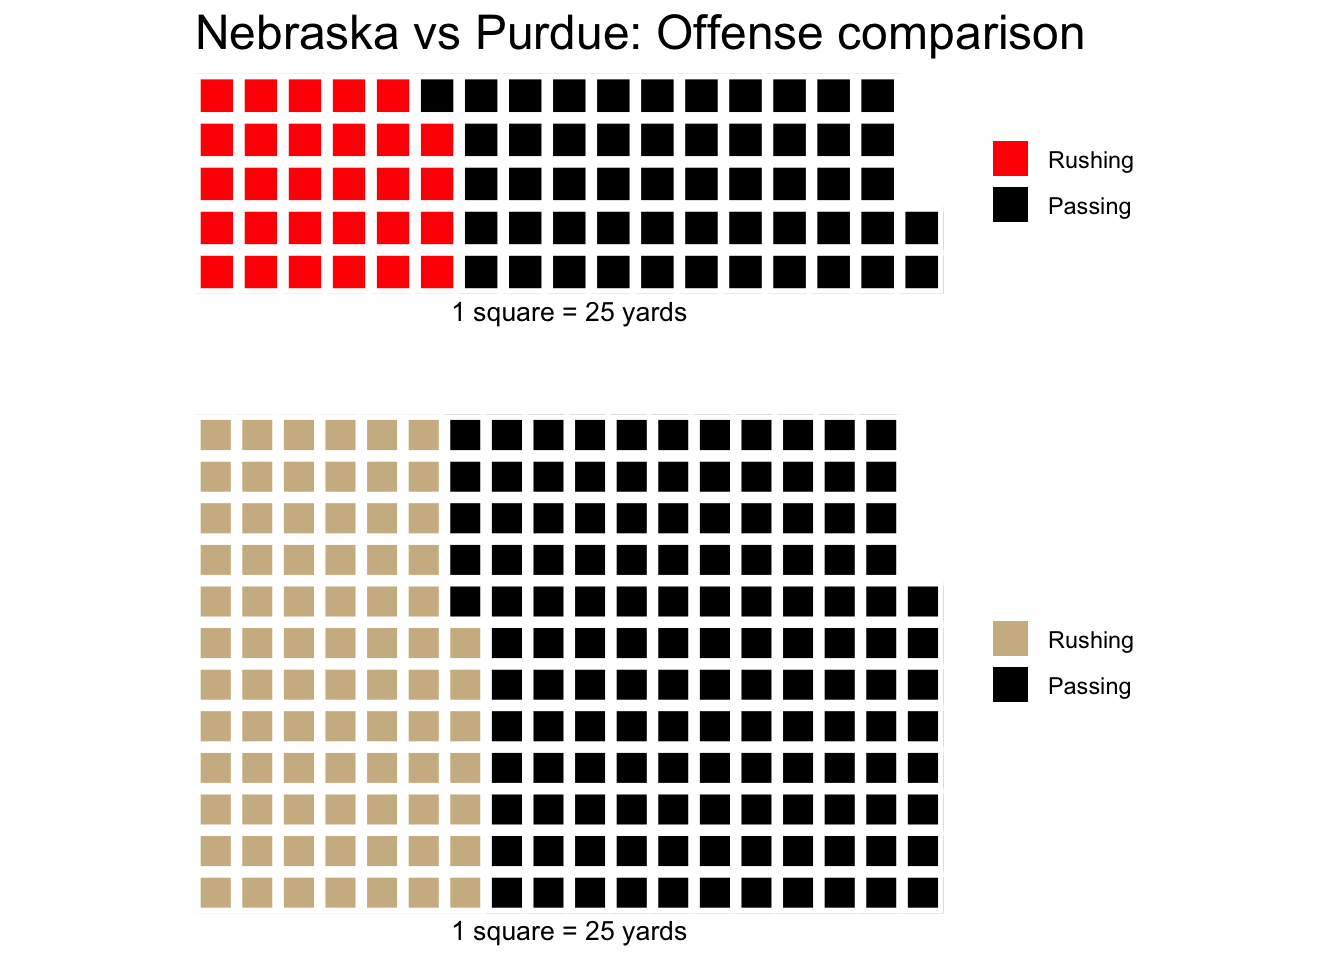
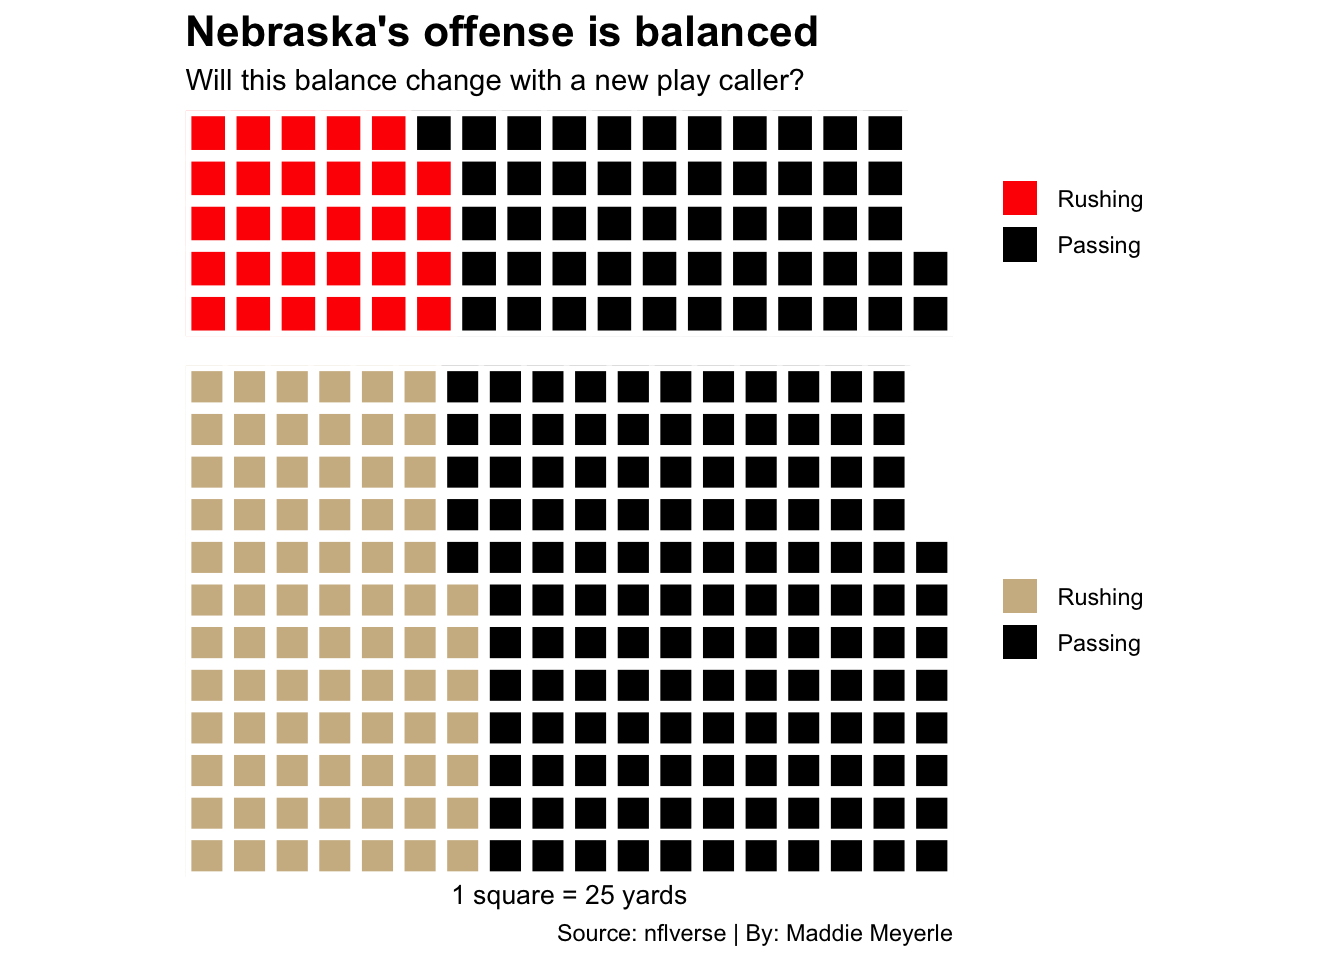
graph

Changed region(s): [[0.125, 0.375, 0.8438, 1.0], [0.125, 0.0, 0.8438, 0.3438]]

diff --git a/posts/christian-mccaffrey-analysis/index.html b/posts/christian-mccaffrey-analysis/index.html
@@ -309,18 +309,27 @@ Attaching package: 'dplyr'</code></pre>
 <span id="cb7-23"><a href="#cb7-23" aria-hidden="true" tabindex="-1"></a>  <span class="fu">waffle</span>(</span>
 <span id="cb7-24"><a href="#cb7-24" aria-hidden="true" tabindex="-1"></a>    before <span class="sc">/</span> <span class="dv">25</span>, </span>
 <span id="cb7-25"><a href="#cb7-25" aria-hidden="true" tabindex="-1"></a>    <span class="at">rows =</span> <span class="dv">5</span>, </span>
-<span id="cb7-26"><a href="#cb7-26" aria-hidden="true" tabindex="-1"></a>    <span class="at">title =</span> <span class="st">"Nebraska vs Purdue: Offense comparison"</span>, </span>
-<span id="cb7-27"><a href="#cb7-27" aria-hidden="true" tabindex="-1"></a>    <span class="at">xlab =</span> <span class="st">"1 square = 25 yards"</span>, </span>
-<span id="cb7-28"><a href="#cb7-28" aria-hidden="true" tabindex="-1"></a>    <span class="at">colors =</span> <span class="fu">c</span>(<span class="st">"red"</span>, <span class="st">"black"</span>)</span>
-<span id="cb7-29"><a href="#cb7-29" aria-hidden="true" tabindex="-1"></a>  ),</span>
-<span id="cb7-30"><a href="#cb7-30" aria-hidden="true" tabindex="-1"></a>  <span class="fu">waffle</span>(</span>
-<span id="cb7-31"><a href="#cb7-31" aria-hidden="true" tabindex="-1"></a>    after <span class="sc">/</span> <span class="dv">25</span>, </span>
-<span id="cb7-32"><a href="#cb7-32" aria-hidden="true" tabindex="-1"></a>    <span class="at">rows =</span> <span class="dv">12</span>, </span>
-<span id="cb7-33"><a href="#cb7-33" aria-hidden="true" tabindex="-1"></a>    <span class="at">title =</span> <span class="st">""</span>, </span>
-<span id="cb7-34"><a href="#cb7-34" aria-hidden="true" tabindex="-1"></a>    <span class="at">xlab =</span> <span class="st">"1 square = 25 yards"</span>, </span>
-<span id="cb7-35"><a href="#cb7-35" aria-hidden="true" tabindex="-1"></a>    <span class="at">colors =</span> <span class="fu">c</span>(<span class="st">"#CFB991"</span>, <span class="st">"#000000"</span>, <span class="st">"white"</span>)</span>
-<span id="cb7-36"><a href="#cb7-36" aria-hidden="true" tabindex="-1"></a>  )</span>
-<span id="cb7-37"><a href="#cb7-37" aria-hidden="true" tabindex="-1"></a>)</span></code><button title="Copy to Clipboard" class="code-copy-button"><i class="bi"></i></button></pre></div>
+<span id="cb7-26"><a href="#cb7-26" aria-hidden="true" tabindex="-1"></a>    <span class="at">colors =</span> <span class="fu">c</span>(<span class="st">"red"</span>, <span class="st">"black"</span>)</span>
+<span id="cb7-27"><a href="#cb7-27" aria-hidden="true" tabindex="-1"></a>  ) <span class="sc">+</span></span>
+<span id="cb7-28"><a href="#cb7-28" aria-hidden="true" tabindex="-1"></a>    <span class="fu">labs</span>(</span>
+<span id="cb7-29"><a href="#cb7-29" aria-hidden="true" tabindex="-1"></a>      <span class="at">title =</span> <span class="st">"Nebraska's offense is balanced"</span>,</span>
+<span id="cb7-30"><a href="#cb7-30" aria-hidden="true" tabindex="-1"></a>      <span class="at">subtitle =</span> <span class="st">"Will this balance change with a new play caller?"</span>,</span>
+<span id="cb7-31"><a href="#cb7-31" aria-hidden="true" tabindex="-1"></a>    ) <span class="sc">+</span></span>
+<span id="cb7-32"><a href="#cb7-32" aria-hidden="true" tabindex="-1"></a>    <span class="fu">theme</span>(</span>
+<span id="cb7-33"><a href="#cb7-33" aria-hidden="true" tabindex="-1"></a>      <span class="at">plot.title =</span> <span class="fu">element_text</span>(<span class="at">size =</span> <span class="dv">16</span>, <span class="at">face =</span> <span class="st">"bold"</span>),</span>
+<span id="cb7-34"><a href="#cb7-34" aria-hidden="true" tabindex="-1"></a>      <span class="at">axis.title =</span> <span class="fu">element_text</span>(<span class="at">size =</span> <span class="dv">10</span>),</span>
+<span id="cb7-35"><a href="#cb7-35" aria-hidden="true" tabindex="-1"></a>      <span class="at">axis.title.y =</span> <span class="fu">element_blank</span>()</span>
+<span id="cb7-36"><a href="#cb7-36" aria-hidden="true" tabindex="-1"></a>    ),</span>
+<span id="cb7-37"><a href="#cb7-37" aria-hidden="true" tabindex="-1"></a>  <span class="fu">waffle</span>(</span>
+<span id="cb7-38"><a href="#cb7-38" aria-hidden="true" tabindex="-1"></a>    after <span class="sc">/</span> <span class="dv">25</span>, </span>
+<span id="cb7-39"><a href="#cb7-39" aria-hidden="true" tabindex="-1"></a>    <span class="at">rows =</span> <span class="dv">12</span>, </span>
+<span id="cb7-40"><a href="#cb7-40" aria-hidden="true" tabindex="-1"></a>    <span class="at">colors =</span> <span class="fu">c</span>(<span class="st">"#CFB991"</span>, <span class="st">"#000000"</span>, <span class="st">"white"</span>)</span>
+<span id="cb7-41"><a href="#cb7-41" aria-hidden="true" tabindex="-1"></a>  ) <span class="sc">+</span></span>
+<span id="cb7-42"><a href="#cb7-42" aria-hidden="true" tabindex="-1"></a>    <span class="fu">labs</span>(</span>
+<span id="cb7-43"><a href="#cb7-43" aria-hidden="true" tabindex="-1"></a>      <span class="at">x =</span> <span class="st">"1 square = 25 yards"</span>,</span>
+<span id="cb7-44"><a href="#cb7-44" aria-hidden="true" tabindex="-1"></a>      <span class="at">caption =</span> <span class="st">"Source: nflverse | By: Maddie Meyerle"</span></span>
+<span id="cb7-45"><a href="#cb7-45" aria-hidden="true" tabindex="-1"></a>    )</span>
+<span id="cb7-46"><a href="#cb7-46" aria-hidden="true" tabindex="-1"></a>)</span></code><button title="Copy to Clipboard" class="code-copy-button"><i class="bi"></i></button></pre></div>
 </details>
 <div class="cell-output-display">
 <div>
@@ -331,6 +340,100 @@ Attaching package: 'dplyr'</code></pre>
 </div>
 </div>
 <p>text</p>
+<div class="cell">
+<details class="code-fold">
+<summary>Code</summary>
+<div class="sourceCode cell-code" id="cb8"><pre class="sourceCode r code-with-copy"><code class="sourceCode r"><span id="cb8-1"><a href="#cb8-1" aria-hidden="true" tabindex="-1"></a><span class="fu">library</span>(tidyverse)</span></code><button title="Copy to Clipboard" class="code-copy-button"><i class="bi"></i></button></pre></div>
+</details>
+<div class="cell-output cell-output-stderr">
+<pre><code>── Attaching core tidyverse packages ──────────────────────── tidyverse 2.0.0 ──
+✔ forcats   1.0.0     ✔ readr     2.1.5
+✔ lubridate 1.9.3     ✔ stringr   1.5.1
+✔ purrr     1.0.2     ✔ tibble    3.2.1
+── Conflicts ────────────────────────────────────────── tidyverse_conflicts() ──
+✖ dplyr::filter() masks stats::filter()
+✖ dplyr::lag()    masks stats::lag()
+ℹ Use the conflicted package (&lt;http://conflicted.r-lib.org/&gt;) to force all conflicts to become errors</code></pre>
+</div>
+<details class="code-fold">
+<summary>Code</summary>
+<div class="sourceCode cell-code" id="cb10"><pre class="sourceCode r code-with-copy"><code class="sourceCode r"><span id="cb10-1"><a href="#cb10-1" aria-hidden="true" tabindex="-1"></a>runningbacks <span class="ot">&lt;-</span> </span>
+<span id="cb10-2"><a href="#cb10-2" aria-hidden="true" tabindex="-1"></a>  <span class="fu">read_csv</span>(<span class="st">"data/niners2022.csv"</span>)</span></code><button title="Copy to Clipboard" class="code-copy-button"><i class="bi"></i></button></pre></div>
+</details>
+<div class="cell-output cell-output-stderr">
+<pre><code>New names:
+Rows: 22 Columns: 33
+── Column specification
+──────────────────────────────────────────────────────── Delimiter: "," chr
+(2): Player, Pos dbl (25): Rk, Age, G, GS, Att, RushYds, TD...9, 1D...10,
+Succ%...11, Lng...1... lgl (6): ...28, ...29, ...30, ...31, ...32, ...33
+ℹ Use `spec()` to retrieve the full column specification for this data. ℹ
+Specify the column types or set `show_col_types = FALSE` to quiet this message.
+• `TD` -&gt; `TD...9`
+• `1D` -&gt; `1D...10`
+• `Succ%` -&gt; `Succ%...11`
+• `Lng` -&gt; `Lng...12`
+• `Y/G` -&gt; `Y/G...14`
+• `TD` -&gt; `TD...20`
+• `1D` -&gt; `1D...21`
+• `Succ%` -&gt; `Succ%...22`
+• `Lng` -&gt; `Lng...23`
+• `Y/G` -&gt; `Y/G...25`
+• `` -&gt; `...28`
+• `` -&gt; `...29`
+• `` -&gt; `...30`
+• `` -&gt; `...31`
+• `` -&gt; `...32`
+• `` -&gt; `...33`</code></pre>
+</div>
+<details class="code-fold">
+<summary>Code</summary>
+<div class="sourceCode cell-code" id="cb12"><pre class="sourceCode r code-with-copy"><code class="sourceCode r"><span id="cb12-1"><a href="#cb12-1" aria-hidden="true" tabindex="-1"></a>players_of_interest <span class="ot">&lt;-</span> <span class="fu">c</span>(<span class="st">"Christian McCaffrey"</span>, <span class="st">"Jeff Wilson"</span>, <span class="st">"Elijah Mitchell"</span>, <span class="st">"Jordan Mason"</span>, <span class="st">"Tyrion Davis-Price"</span>, <span class="st">"Tevin Coleman"</span>)</span>
+<span id="cb12-2"><a href="#cb12-2" aria-hidden="true" tabindex="-1"></a></span>
+<span id="cb12-3"><a href="#cb12-3" aria-hidden="true" tabindex="-1"></a>filtered_rb <span class="ot">&lt;-</span> runningbacks <span class="sc">|&gt;</span></span>
+<span id="cb12-4"><a href="#cb12-4" aria-hidden="true" tabindex="-1"></a>  <span class="fu">filter</span>(Player <span class="sc">%in%</span> players_of_interest) <span class="sc">|&gt;</span></span>
+<span id="cb12-5"><a href="#cb12-5" aria-hidden="true" tabindex="-1"></a>  <span class="fu">select</span>(Player, RushYds, RecYds)</span>
+<span id="cb12-6"><a href="#cb12-6" aria-hidden="true" tabindex="-1"></a></span>
+<span id="cb12-7"><a href="#cb12-7" aria-hidden="true" tabindex="-1"></a>long_data <span class="ot">&lt;-</span> filtered_rb <span class="sc">|&gt;</span></span>
+<span id="cb12-8"><a href="#cb12-8" aria-hidden="true" tabindex="-1"></a>  <span class="fu">pivot_longer</span>(</span>
+<span id="cb12-9"><a href="#cb12-9" aria-hidden="true" tabindex="-1"></a>    <span class="at">cols =</span> <span class="fu">c</span>(<span class="st">"RushYds"</span>, <span class="st">"RecYds"</span>),</span>
+<span id="cb12-10"><a href="#cb12-10" aria-hidden="true" tabindex="-1"></a>    <span class="at">names_to =</span> <span class="st">"Yard_Type"</span>,</span>
+<span id="cb12-11"><a href="#cb12-11" aria-hidden="true" tabindex="-1"></a>    <span class="at">values_to =</span> <span class="st">"Yards"</span></span>
+<span id="cb12-12"><a href="#cb12-12" aria-hidden="true" tabindex="-1"></a>  )</span>
+<span id="cb12-13"><a href="#cb12-13" aria-hidden="true" tabindex="-1"></a></span>
+<span id="cb12-14"><a href="#cb12-14" aria-hidden="true" tabindex="-1"></a><span class="fu">ggplot</span>(long_data, <span class="fu">aes</span>(</span>
+<span id="cb12-15"><a href="#cb12-15" aria-hidden="true" tabindex="-1"></a>  <span class="at">x =</span> Player,</span>
+<span id="cb12-16"><a href="#cb12-16" aria-hidden="true" tabindex="-1"></a>  <span class="at">y =</span> Yards,</span>
+<span id="cb12-17"><a href="#cb12-17" aria-hidden="true" tabindex="-1"></a>  <span class="at">fill =</span> Yard_Type</span>
+<span id="cb12-18"><a href="#cb12-18" aria-hidden="true" tabindex="-1"></a>)) <span class="sc">+</span></span>
+<span id="cb12-19"><a href="#cb12-19" aria-hidden="true" tabindex="-1"></a>  <span class="fu">geom_bar</span>(<span class="at">stat =</span> <span class="st">"identity"</span>) <span class="sc">+</span></span>
+<span id="cb12-20"><a href="#cb12-20" aria-hidden="true" tabindex="-1"></a>  <span class="fu">coord_flip</span>() <span class="sc">+</span></span>
+<span id="cb12-21"><a href="#cb12-21" aria-hidden="true" tabindex="-1"></a>  <span class="fu">labs</span>(</span>
+<span id="cb12-22"><a href="#cb12-22" aria-hidden="true" tabindex="-1"></a>    <span class="at">title =</span> <span class="st">"Comparison of receiving and rushing"</span>,</span>
+<span id="cb12-23"><a href="#cb12-23" aria-hidden="true" tabindex="-1"></a>    <span class="at">subtitle =</span> <span class="st">"Christian McCaffrey stuff"</span>,</span>
+<span id="cb12-24"><a href="#cb12-24" aria-hidden="true" tabindex="-1"></a>    <span class="at">caption =</span> <span class="st">"Source: Sports-Reference | By: Maddie Meyerle"</span>,</span>
+<span id="cb12-25"><a href="#cb12-25" aria-hidden="true" tabindex="-1"></a>    <span class="at">x =</span> <span class="st">"Player"</span>,</span>
+<span id="cb12-26"><a href="#cb12-26" aria-hidden="true" tabindex="-1"></a>    <span class="at">y =</span> <span class="st">"Yards"</span>,</span>
+<span id="cb12-27"><a href="#cb12-27" aria-hidden="true" tabindex="-1"></a>    <span class="at">fill =</span> <span class="st">"Yard Type"</span></span>
+<span id="cb12-28"><a href="#cb12-28" aria-hidden="true" tabindex="-1"></a>  ) <span class="sc">+</span></span>
+<span id="cb12-29"><a href="#cb12-29" aria-hidden="true" tabindex="-1"></a>  <span class="fu">scale_fill_manual</span>(<span class="at">values =</span> <span class="fu">c</span>(<span class="st">"RushYds"</span> <span class="ot">=</span> <span class="st">"orange"</span>, <span class="st">"RecYds"</span> <span class="ot">=</span> <span class="st">"blue"</span>),</span>
+<span id="cb12-30"><a href="#cb12-30" aria-hidden="true" tabindex="-1"></a>                    <span class="at">labels =</span> <span class="fu">c</span>(<span class="st">"RushYds"</span> <span class="ot">=</span> <span class="st">"Rushing"</span>, <span class="st">"RecYds"</span> <span class="ot">=</span> <span class="st">"Receiving"</span>)) <span class="sc">+</span></span>
+<span id="cb12-31"><a href="#cb12-31" aria-hidden="true" tabindex="-1"></a>  <span class="fu">theme_minimal</span>() <span class="sc">+</span></span>
+<span id="cb12-32"><a href="#cb12-32" aria-hidden="true" tabindex="-1"></a>  <span class="fu">theme</span>(</span>
+<span id="cb12-33"><a href="#cb12-33" aria-hidden="true" tabindex="-1"></a>    <span class="at">plot.title =</span> <span class="fu">element_text</span>(<span class="at">face =</span> <span class="st">"bold"</span>, <span class="at">size =</span> <span class="dv">14</span>),</span>
+<span id="cb12-34"><a href="#cb12-34" aria-hidden="true" tabindex="-1"></a>    <span class="at">axis.title =</span> <span class="fu">element_text</span>(<span class="at">size =</span> <span class="dv">12</span>),</span>
+<span id="cb12-35"><a href="#cb12-35" aria-hidden="true" tabindex="-1"></a>    <span class="at">legend.title =</span> <span class="fu">element_blank</span>(),</span>
+<span id="cb12-36"><a href="#cb12-36" aria-hidden="true" tabindex="-1"></a>    <span class="at">axis.text =</span> <span class="fu">element_text</span>(<span class="at">size =</span> <span class="dv">10</span>)</span>
+<span id="cb12-37"><a href="#cb12-37" aria-hidden="true" tabindex="-1"></a>  )</span></code><button title="Copy to Clipboard" class="code-copy-button"><i class="bi"></i></button></pre></div>
+</details>
+<div class="cell-output-display">
+<div>
+<figure class="figure">
+<p><img src="index_files/figure-html/unnamed-chunk-3-1.png" class="img-fluid figure-img" width="672"></p>
+</figure>
+</div>
+</div>
+</div>
 
 
 

diff --git a/index.html b/index.html
@@ -215,7 +215,7 @@ window.Quarto = {
 
 <div class="quarto-listing quarto-listing-container-default" id="listing-listing">
 <div class="list quarto-listing-default">
-<div class="quarto-post image-right" data-index="0" data-categories="bWNjYWZmcmV5LGFuYWx5c2lzLG5mbA==" data-listing-date-sort="1733378400000" data-listing-file-modified-sort="1733685012471" data-listing-date-modified-sort="NaN" data-listing-reading-time-sort="3" data-listing-word-count-sort="487">
+<div class="quarto-post image-right" data-index="0" data-categories="bWNjYWZmcmV5LGFuYWx5c2lzLG5mbA==" data-listing-date-sort="1733378400000" data-listing-file-modified-sort="1733689730468" data-listing-date-modified-sort="NaN" data-listing-reading-time-sort="4" data-listing-word-count-sort="764">
 <div class="thumbnail">
 <p><a href="./posts/christian-mccaffrey-analysis/index.html" class="no-external"></a></p><a href="./posts/christian-mccaffrey-analysis/index.html" class="no-external">
 <p><img loading="lazy" src="./posts/christian-mccaffrey-analysis/image.png" class="thumbnail-image"></p>
